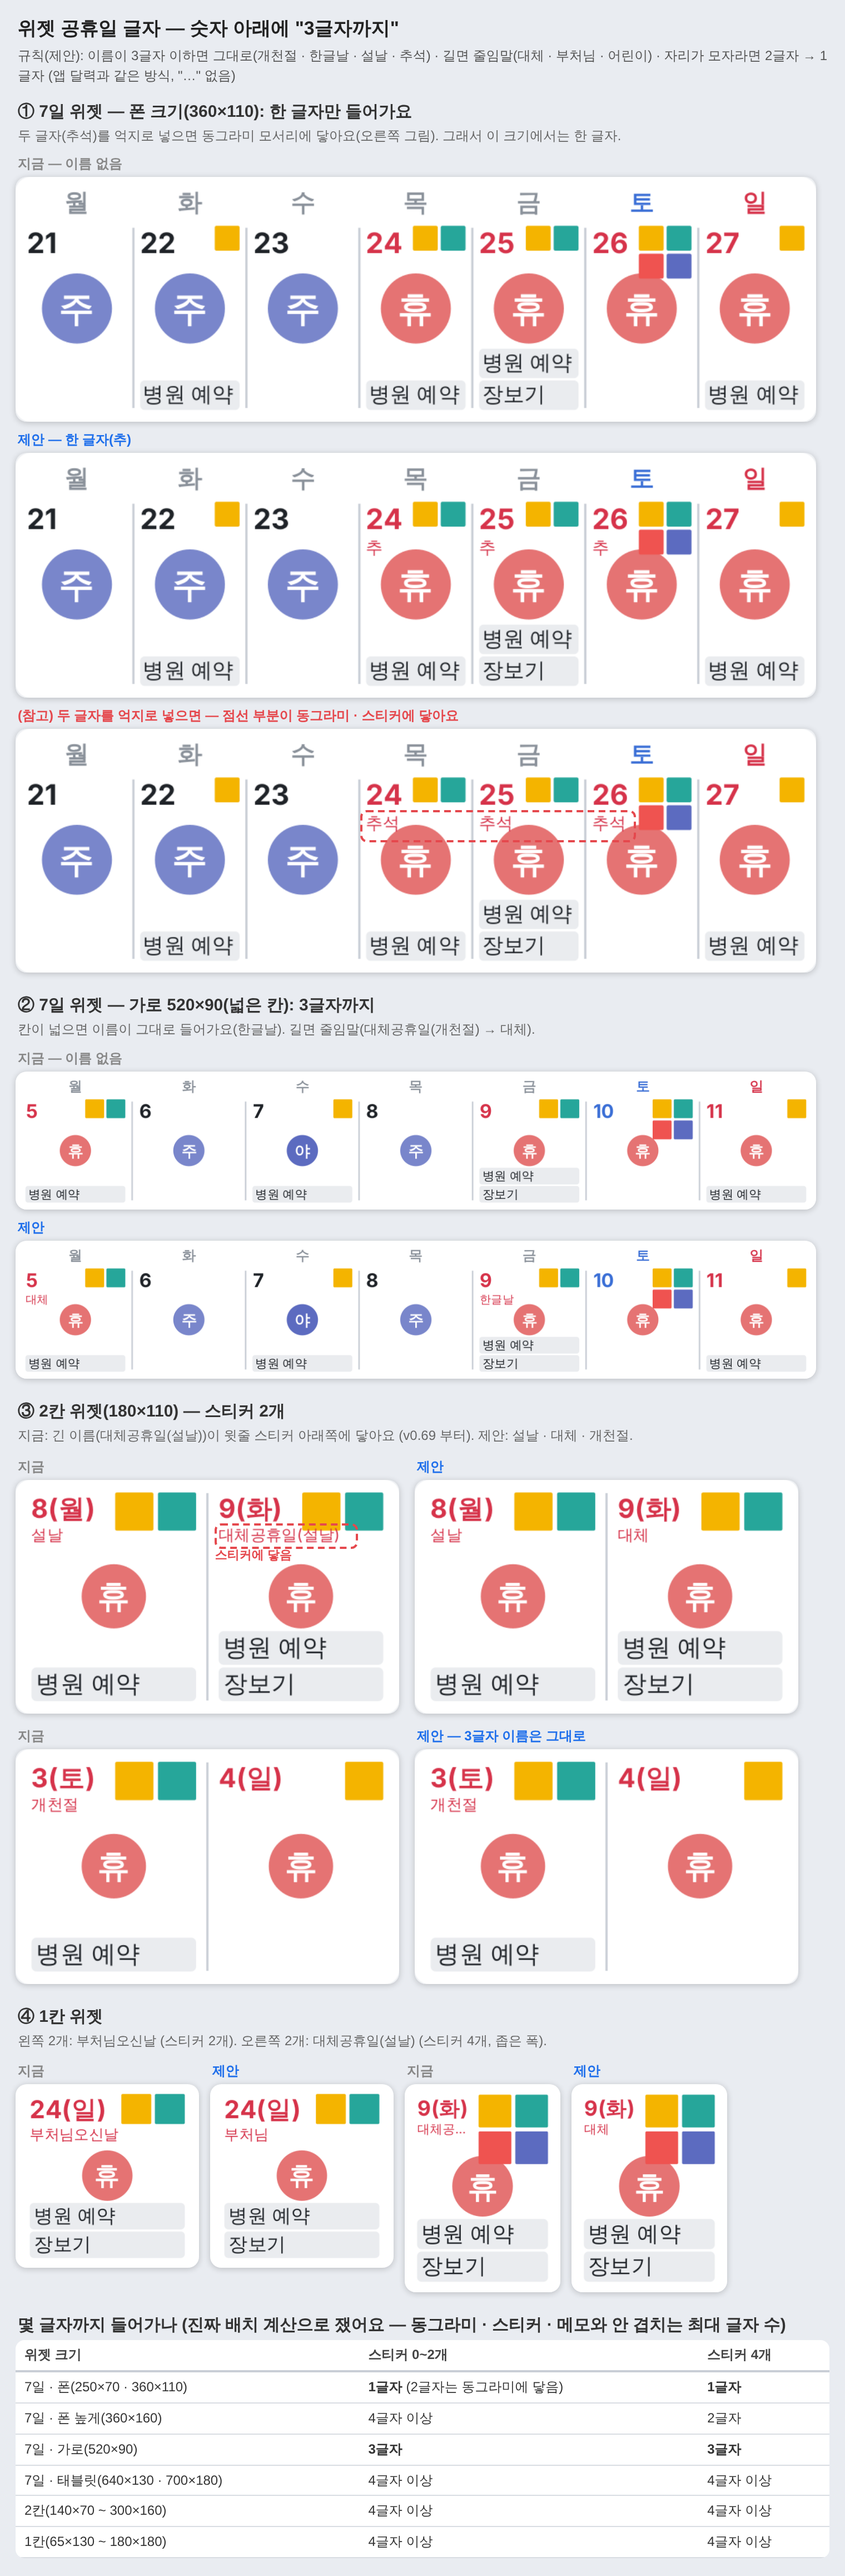
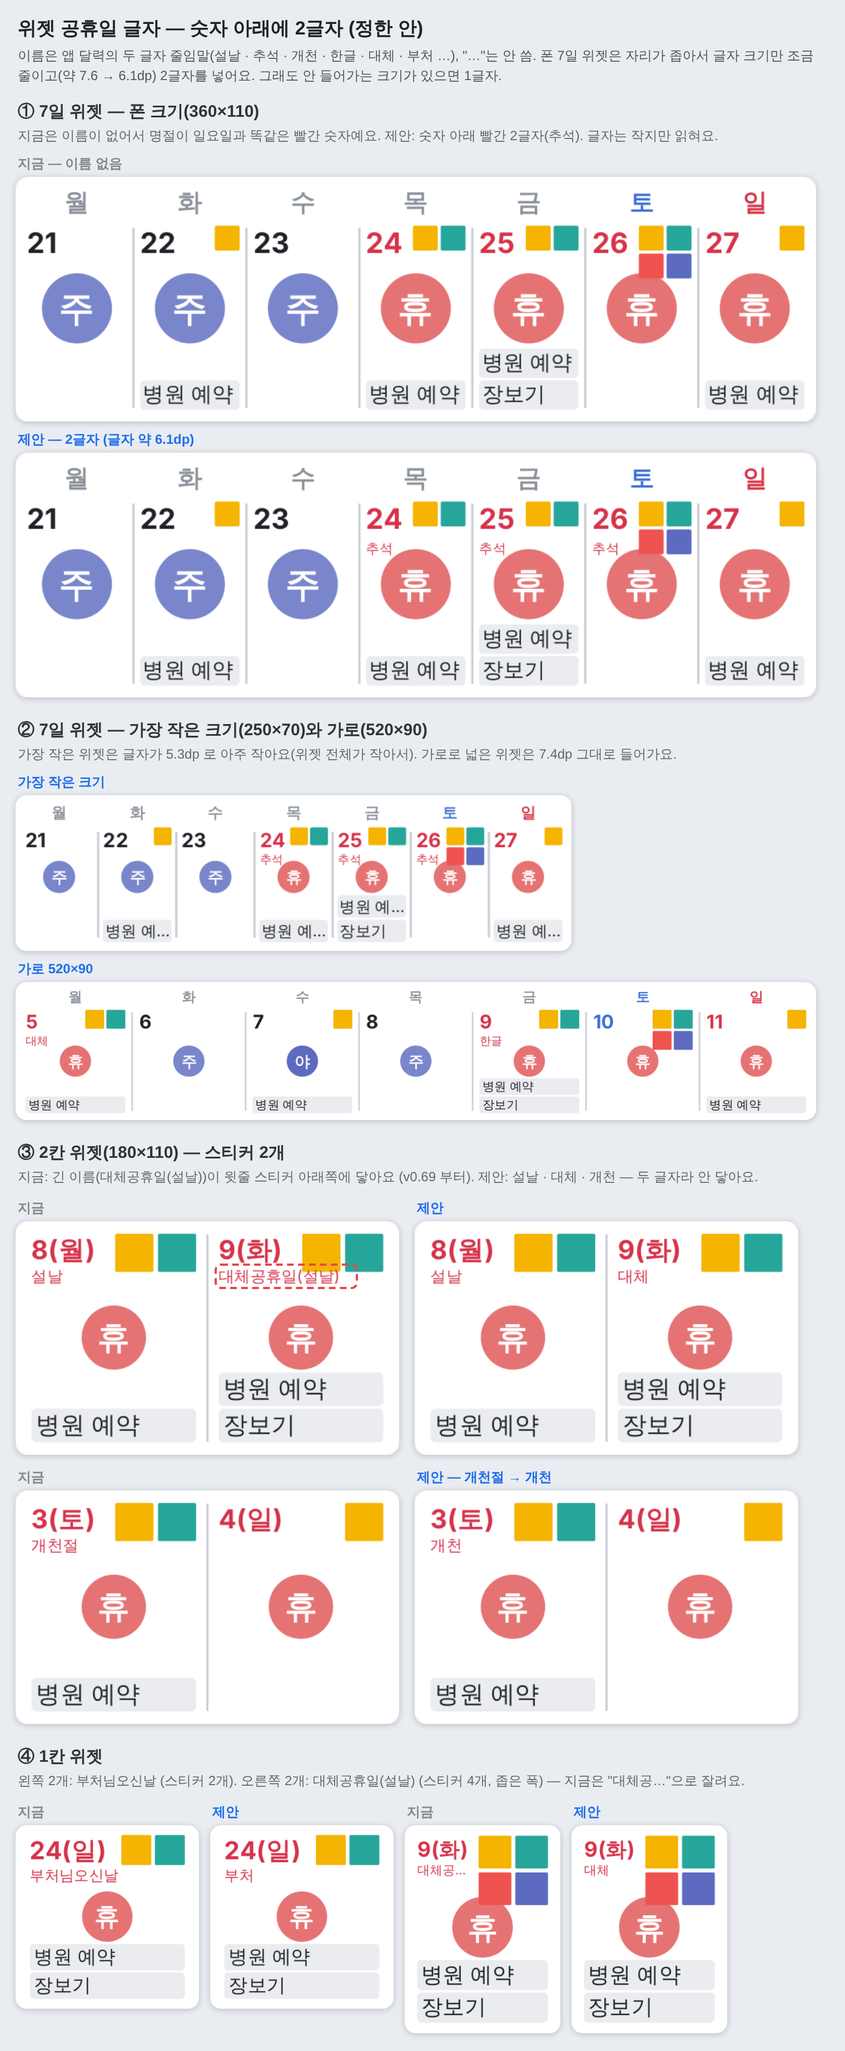
TODO · 시안: 위젯 공휴일 글자는 숫자 아래 "2글자"로 결정(사용자) — 아직 만들지 않음 (코드 · 빌드 없음)
- 7일 폰 크기는 글자 크기를 약 7.6 → 6.1dp 로 줄여 2글자를 넣음 · 1칸 · 2칸은 지금 크기 그대로 · 안 들어가면 1글자
- 2글자면 v0.69 의 "긴 이름이 윗줄 스티커에 닿음"도 저절로 해결

Claude-Session: https://claude.ai/code/session_01DP2NyZv5qNdwYSJLeYP8U7

diff --git a/docs/TODO.md b/docs/TODO.md
@@ -1380,17 +1380,13 @@
 - **판단**: 설날 · 추석 자체는 문제 없음. 아쉬운 점 둘 — ① **앱 달력에서 사용자가 정한 규칙("…" 없이 짧게: 숫자 옆에 2글자 → 모자라면 1글자 → 스티커 때문에 아래로 내려오면 1글자, 위 "공휴일 이름은 폭에 맞춰" 항목들)을 위젯은 안 따르고 "…"로 자름** → 앱과 위젯 표시가 다름 ② 7일 위젯은 명절이 일요일과 똑같은 빨간 숫자(자리가 없어서 일부러 이름을 뺌 · 큰 창에서 이름 확인).
 - **제안(안 만듦) — 사용자 의견으로 "숫자 아래 한 글자"로 바뀜(바로 아래 항목)**: ① 1칸 · 2칸에서 이름이 안 들어가면 "…" 대신 앱처럼 짧게(대체공휴일(삼일절) → 대체 · 부처님오신날 → 부처 · 한 글자는 대 · 부 …). 위젯 데이터에 앱이 이미 가진 짧은 이름(`holTwo` 2글자 · `holOne` 1글자)을 같이 보내고, Kotlin 은 폭에 맞춰 전체 → 2글자 → 1글자 순으로 고름. 건드리는 곳: `index.html widgetJson`(날마다 짧은 이름 두 개 추가) + `Widgets.kt drawCell` 이름 줄. 공휴일이 없는 날 · 안 쓰는 사람 화면은 달라지는 게 없음. ② 7일 위젯은 그대로(자리 없음). 급하진 않음(설날 · 추석은 이미 잘 나옴) — 앱과 맞추고 싶을 때 "만들어".
 
-## 🤔 위젯 공휴일 글자: 날짜 숫자 아래에 "3글자까지" (2026-10-18 사용자 "스티커가 2개 만들었을 때 명절 상태말이야 · 내가 보기에 위젯에는 날짜 숫자 하단에 한 글자 들어가야 할 거 같은데" → "일단 3글자까지는 어때? 2글자가 좋나?" · 시안 `design/widget_hol_label.png` · **코드 안 건드림** · "만들어" 대기)
-- **제안(3글자까지, 자리에 맞춰 줄임)**: 모든 위젯(7일 · 2칸 · 1칸)에서 공휴일 · 명절은 **날짜 숫자 바로 아래에 빨간 글자**. 이름이 3글자 이하면 그대로(개천절 · 한글날 · 광복절 · 삼일절 · 현충일 · 성탄절 · 설날 · 추석), 길면 줄임말 3글자(어린이 · 부처님 · 근로자) 또는 2글자(대체공휴일 → 대체 · 임시공휴일 → 임시), **자리가 모자라면 2글자 → 1글자**(앱 달력과 같은 방식 · "…" 없음). 한 글자 표는 앱 `holOne`(설 · 추 · 개 · 한 · 대 · 부 …), 두 글자는 `holTwo`. 사용자 첫 의견은 "한 글자"였고, 3글자가 이름이 그대로 읽혀서 더 자연스러움(2글자는 개천 · 한글 같은 줄임말).
-- **판단: 필요함(중간)**. ① 7일 위젯은 지금 이름이 없어서 명절 · 공휴일이 일요일과 똑같은 빨간 숫자 ② 1칸 · 2칸은 설날 · 추석(두 글자)은 지금도 잘 나오지만 긴 이름이 문제(아래) ③ 앱과 위젯 표시가 같아짐. 안 쓰는 사람 화면: 공휴일 날에만 작은 빨간 글자가 늘어남(날짜 빨강과 같은 정보라 부담 작음). **대가**: 1칸 · 2칸에서 긴 이름(대체공휴일(설날) · 부처님오신날)은 줄임말이 됨 → 전체 이름은 칸을 눌러 큰 창에서.
-- **몇 글자까지 들어가나**(진짜 `WidgetLayout` 계산 · 동그라미 · 스티커 · 메모와 안 겹치는 최대 글자 수):
-  - 7일 **폰 크기(250x70 · 360x110dp)는 1글자만**(2글자는 동그라미 모서리 · 4개짜리 스티커에 닿음 — 시안에서 확인). 7일 폰 높게(360x160)는 4글자 이상(스티커 4개면 2글자) · **7일 가로(520x90) 3글자** · 7일 태블릿(640x130 · 700x180) 4글자 이상.
-  - **2칸(140x70 ~ 300x160) · 1칸(65x130 ~ 180x180)은 스티커가 4개여도 4글자 이상** → 3글자는 늘 들어감.
-  - 그래서 "3글자까지 + 자리에 맞춰 줄임"이면 1칸 · 2칸은 3글자, 7일 폰은 1글자(큰 7일 위젯은 3글자)로 자동. 2글자 고정은 7일 폰에서 동그라미에 닿아 안 됨 · 3글자 고정은 7일 폰에서 못 넣음.
-  - 글자 크기: 7일 폰 약 7.6dp · 가장 작은 위젯 약 5.1dp → **최소 6dp**(6dp 로 키워도 겹침 0). 7일 위젯 무작위 28000칸 · 1칸 · 2칸 6008칸에서 한 글자는 겹침 0.
-- ⚠ **v0.69 의 작은 부작용 발견**: 1칸 · 2칸에서 스티커를 키운 뒤(칸 폭의 22%) 윗줄 스티커 아래쪽이 숫자 아래 이름 글자 위쪽에 **닿음** — 2칸 180x110dp 약 1.6dp · 1칸 90x120dp 약 2.8dp(1칸 110x110 · 65x130dp 는 안 닿음). 이름이 윗줄 스티커 밑까지 길어지는 날(부처님오신날 · 대체공휴일(…) 같은 6글자 이상)만 해당 → 설날 · 추석 같은 두 글자는 안 걸림(1년에 몇 번). 위 3글자 안이면 저절로 사라짐. 안 바꾸더라도 최소 고침: 이름 폭을 윗줄 스티커 왼쪽까지로 제한(`Widgets.kt drawCell`). 배치 검사 도구가 못 잡은 이유: 그림에 짧은 영어 "Holiday" 만 써서 → 만들 때 긴 한글 이름 · 겹침 검사 추가.
-- **건드리는 곳**: `index.html widgetJson`(날마다 이름 후보 3개 `[3글자, 2글자, 1글자]` — 앱의 `holOne` · `holTwo` 표 재사용, "연휴" 앞뒤 날은 가운데 날 이름으로) + `WidgetLayout`(이름 자리 폭을 순수 계산으로 · 검사 도구가 겹침 시험) + `Widgets.kt drawCell` 이름 줄(후보 중 자리에 들어가는 가장 긴 것 · 7일도 그림 · 글자 최소 6dp). 1칸 · 2칸은 이름 줄 자리를 이미 비워 두고, 7일은 숫자 아래 빈 곳에 들어가서 **동그라미 · 메모 자리는 안 바뀜**. 앱 화면 · 서버 영향 없음. 폰에서 확인 필요.
-- **다른 방법**: ① 모든 위젯 한 글자 고정(가장 단순 · 1칸 · 2칸에서 정보가 줄어듦) ② 1칸 · 2칸에서 스티커 없는 날은 이름 전체를 그대로 두고 스티커 있는 날만 줄임(앱과 똑같이 · 조금 복잡).
+## 🤔 위젯 공휴일 글자: 날짜 숫자 아래 **2글자로 결정** (2026-10-18 사용자 "스티커가 2개 만들었을 때 명절 상태말이야 · 위젯에는 날짜 숫자 하단에 한 글자 들어가야 할 거 같은데" → "일단 3글자까지는 어때? 2글자가 좋나?" → **"2글자로 하자 그래야 괜찮을 거 같다"** · 시안 `design/widget_hol_label.png` · **코드 안 건드림** · "만들어" 대기)
+- **결정(사용자): 2글자**. 모든 위젯(7일 · 2칸 · 1칸)에서 공휴일 · 명절은 **날짜 숫자 바로 아래에 빨간 두 글자**(앱 `holTwo` 줄임말 그대로: 설날 · 추석 · 신정 · 개천 · 한글 · 광복 · 삼일 · 현충 · 성탄 · 노동 · 어린 · 부처 · 대체 · 임시 · 연휴). "…" 없음. 앱 달력과 같은 말. (한 글자안 → 3글자안을 거쳐 2글자로: 3글자는 7일 폰 크기에 못 들어가고, 2글자는 크기만 조금 줄이면 어디든 들어감)
+- **7일 위젯 폰 크기의 글자 크기**: 지금 이름 글자 크기(약 7.6dp)로 두 글자를 넣으면 동그라미 모서리 · 4개짜리 스티커에 닿음(시안에서 확인) → **글자 크기를 조금 줄여서 넣음**(0.05 단계로 줄이며 안 닿는 가장 큰 크기 → 약 6.1dp). 7일 위젯 크기별(진짜 `WidgetLayout` 계산): 가장 작은(250x70)은 원래 5.3dp 그대로 들어감(위젯 전체가 작아 아주 작음) · 폰(360x110) 7.6 → 약 6.1dp · 폰 높게(360x160) · 가로(520x90) · 태블릿(640x130~)은 지금 크기 그대로. **1칸 · 2칸은 늘 지금 크기 그대로**(스티커 4개여도 4글자 이상 들어감). 그래도 안 들어가는 크기가 있으면 1글자(`holOne`)로.
+- **판단: 필요함(중간)**. ① 7일 위젯은 지금 이름이 없어서 명절 · 공휴일이 일요일과 똑같은 빨간 숫자 ② 1칸 · 2칸은 설날 · 추석(두 글자)은 지금도 잘 나오지만 긴 이름은 "…"로 잘리거나 스티커에 닿음 ③ 앱과 위젯 표시가 같아짐. 안 쓰는 사람 화면: 공휴일 날에만 작은 빨간 글자가 늘어남(날짜 빨강과 같은 정보라 부담 작음). **대가**: 긴 이름(대체공휴일(설날) · 부처님오신날)은 두 글자(대체 · 부처)가 됨 → 전체 이름은 칸을 눌러 큰 창에서. 폰 7일 위젯의 이름 글자는 6dp 대로 작음(너무 작아 보이면 그 크기만 1글자로 바꾸는 방법도 있음).
+- ⚠ **v0.69 의 작은 부작용 발견**: 1칸 · 2칸에서 스티커를 키운 뒤(칸 폭의 22%) 윗줄 스티커 아래쪽이 숫자 아래 이름 글자 위쪽에 **닿음** — 2칸 180x110dp 약 1.6dp · 1칸 90x120dp 약 2.8dp(1칸 110x110 · 65x130dp 는 안 닿음). 이름이 윗줄 스티커 밑까지 길어지는 날(부처님오신날 · 대체공휴일(…) 같은 6글자 이상)만 해당 → 설날 · 추석은 안 걸림(1년에 몇 번). **두 글자로 줄이면 저절로 사라짐**(두 글자 폭은 윗줄 스티커 왼쪽에 못 미침). 배치 검사 도구가 못 잡은 이유: 그림에 짧은 영어 "Holiday" 만 써서 → 만들 때 긴 한글 이름 · 겹침 검사 추가.
+- **건드리는 곳**: `index.html widgetJson`(날마다 `h2` = `holTwo(이름)` · `h1` = `holOne(이름)` 두 글자열 추가) + `WidgetLayout`(이름 글자 크기 · 자리 계산을 순수 계산으로 → 검사 도구가 겹침 시험) + `Widgets.kt drawCell` 이름 줄(전체 이름 대신 `h2` · 7일도 그림). 1칸 · 2칸은 이름 줄 자리를 이미 비워 두고, 7일은 숫자 아래 빈 곳에 들어가서 **동그라미 · 메모 자리는 안 바뀜**. 앱 화면 · 서버 영향 없음. 폰에서 확인 필요.
+- 시험 근거(컴퓨터 시안 · 진짜 `WidgetLayout` 계산): 두 글자(모드 3)는 7일 폰 · 가장 작은 · 가로 · 2칸 · 1칸 모든 장면에서 겹침 0. 한 글자는 7일 28000칸 · 1칸 · 2칸 6008칸 무작위에서 겹침 0.
 
 ## 🤔 위젯 큰 창: 알림 켠 스티커에 🔔 (2026-10-18 사용자 "스티커 알림설정 되어 있는 건 위젯 클릭하면 종 표시라도 있게 하면 될 거 같은데" · 시안 `design/widget_day_bell.png` · **코드 안 건드림** · "만들어" 대기)
 - **제안**: 위젯을 눌러 열리는 큰 창(`WidgetDayActivity`)의 스티커 줄에서 **알림 시각을 정해 둔 스티커에만 🔔**(이름 오른쪽 · 횟수 왼쪽, 약 15sp). 시각은 안 넣고 종만. 위젯 칸(1칸 · 2칸 · 7일)에는 안 넣음(너무 작음).
